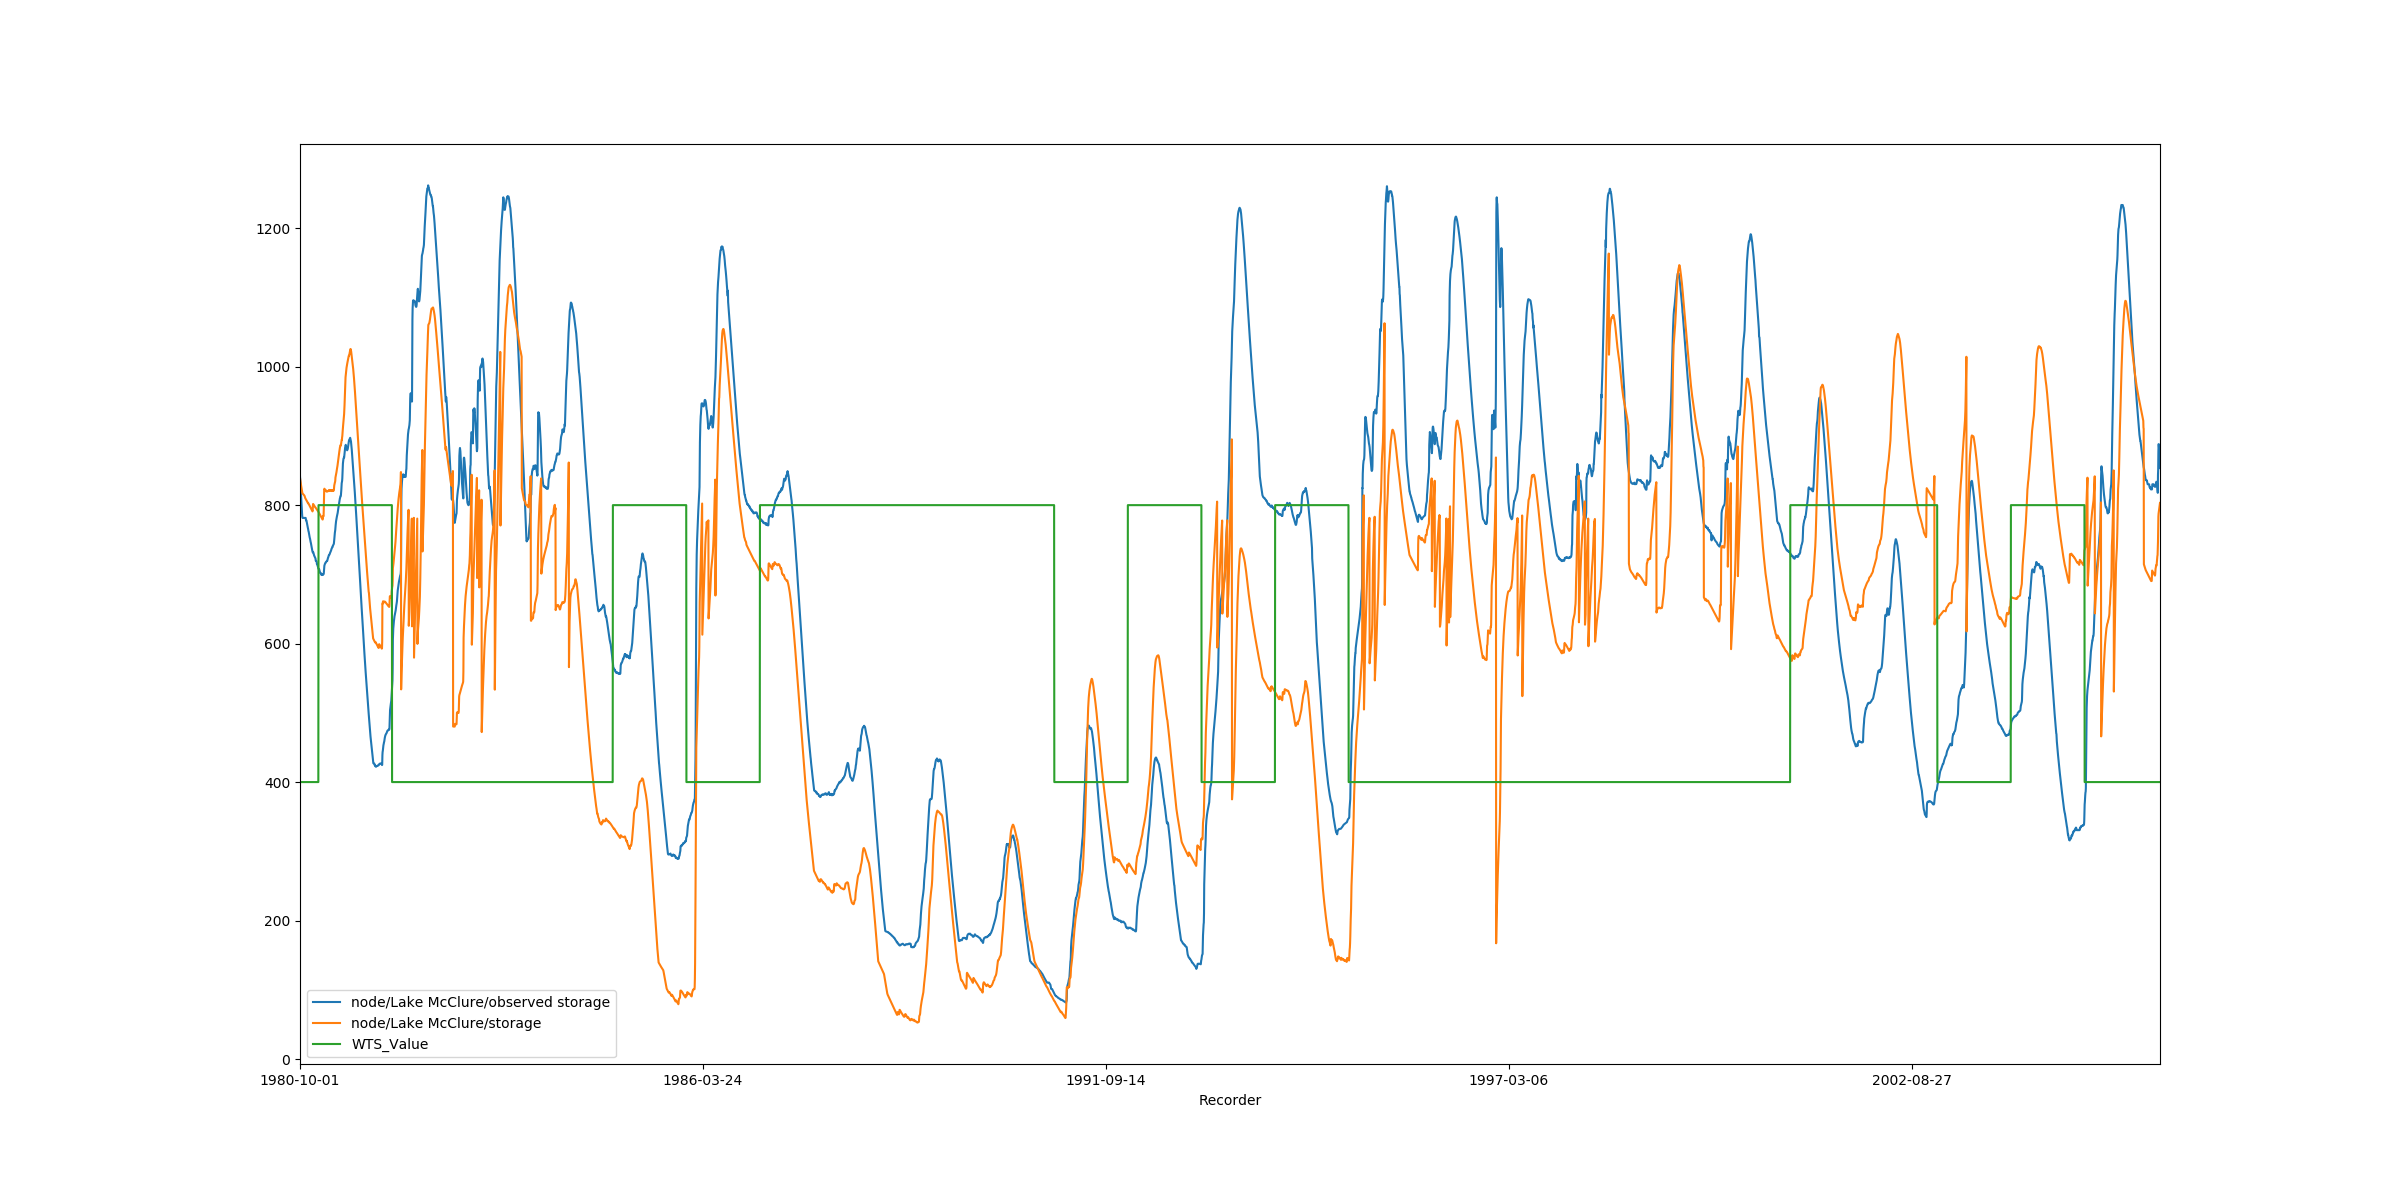
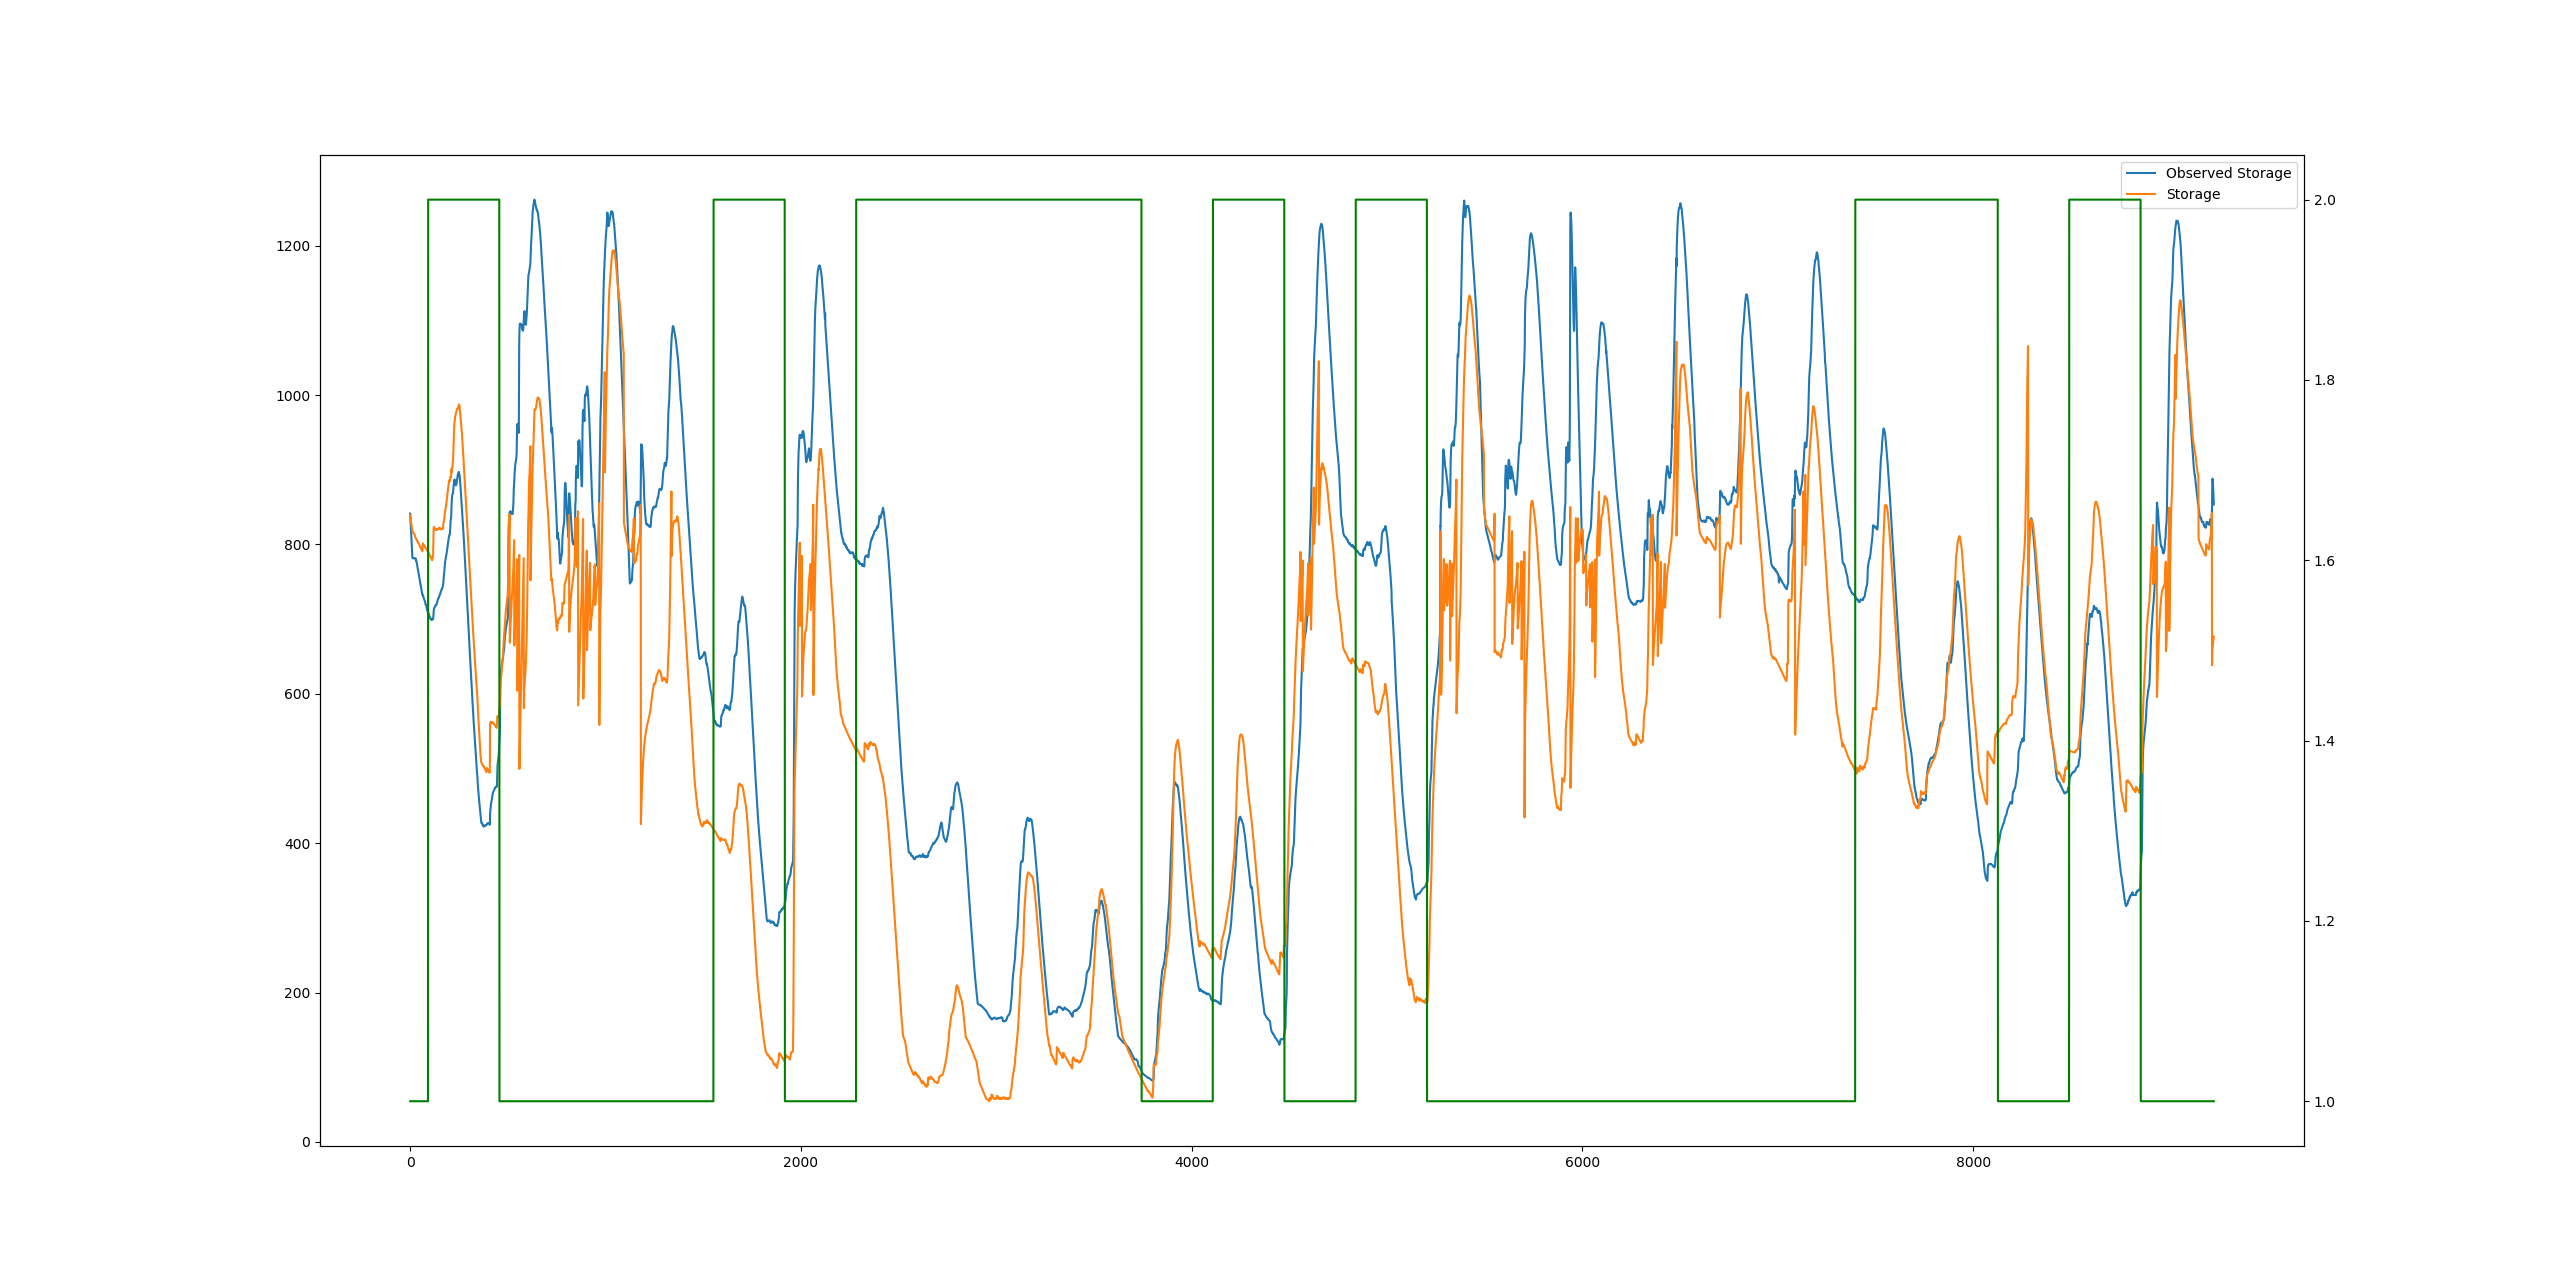
Added secondary axis for WTS values

diff --git a/examples/graph_results.py b/examples/graph_results.py
@@ -11,7 +11,7 @@ def generate_csv():
     wyt_series = []
 
     for index, row in results_csv.iterrows():
-        wyt_series.append(wyt_values[int(row['Recorder'].split("-")[0])] * 400)
+        wyt_series.append(wyt_values[int(row['Recorder'].split("-")[0])])
 
     results_csv["WTS_Value"] = wyt_series
 
@@ -21,13 +21,17 @@ def generate_csv():
 def main():
     graph_data = generate_csv()
 
-    rcParams['figure.figsize'] = 24, 12
-    fig = plt.figure()
-    ax = plt.gca()
+    # Set dimensions for resulting image in pixes (width x height)
+    rcParams['figure.figsize'] = 30, 15
 
-    fig.add_subplot(graph_data.plot(kind='line', x='Recorder', y='node/Lake McClure/observed storage', ax=ax))
-    fig.add_subplot(graph_data.plot(kind='line', x='Recorder', y='node/Lake McClure/storage', ax=ax))
-    fig.add_subplot(graph_data.plot(kind='line', x='Recorder', y='WTS_Value', ax=ax))
+    # Graph the storage results
+    fig, ax1 = plt.subplots()
+    ax1.plot(graph_data["node/Lake McClure/observed storage"], label="Observed Storage")
+    ax1.plot(graph_data["node/Lake McClure/storage"], label="Storage")
+    ax1.legend()
+    # Setup secondary axis
+    ax2 = ax1.twinx()
+    ax2.plot(graph_data["WTS_Value"], 'g', label="WTS")
     plt.show()
     fig.savefig("result_graph.png", dpi=100)
 
